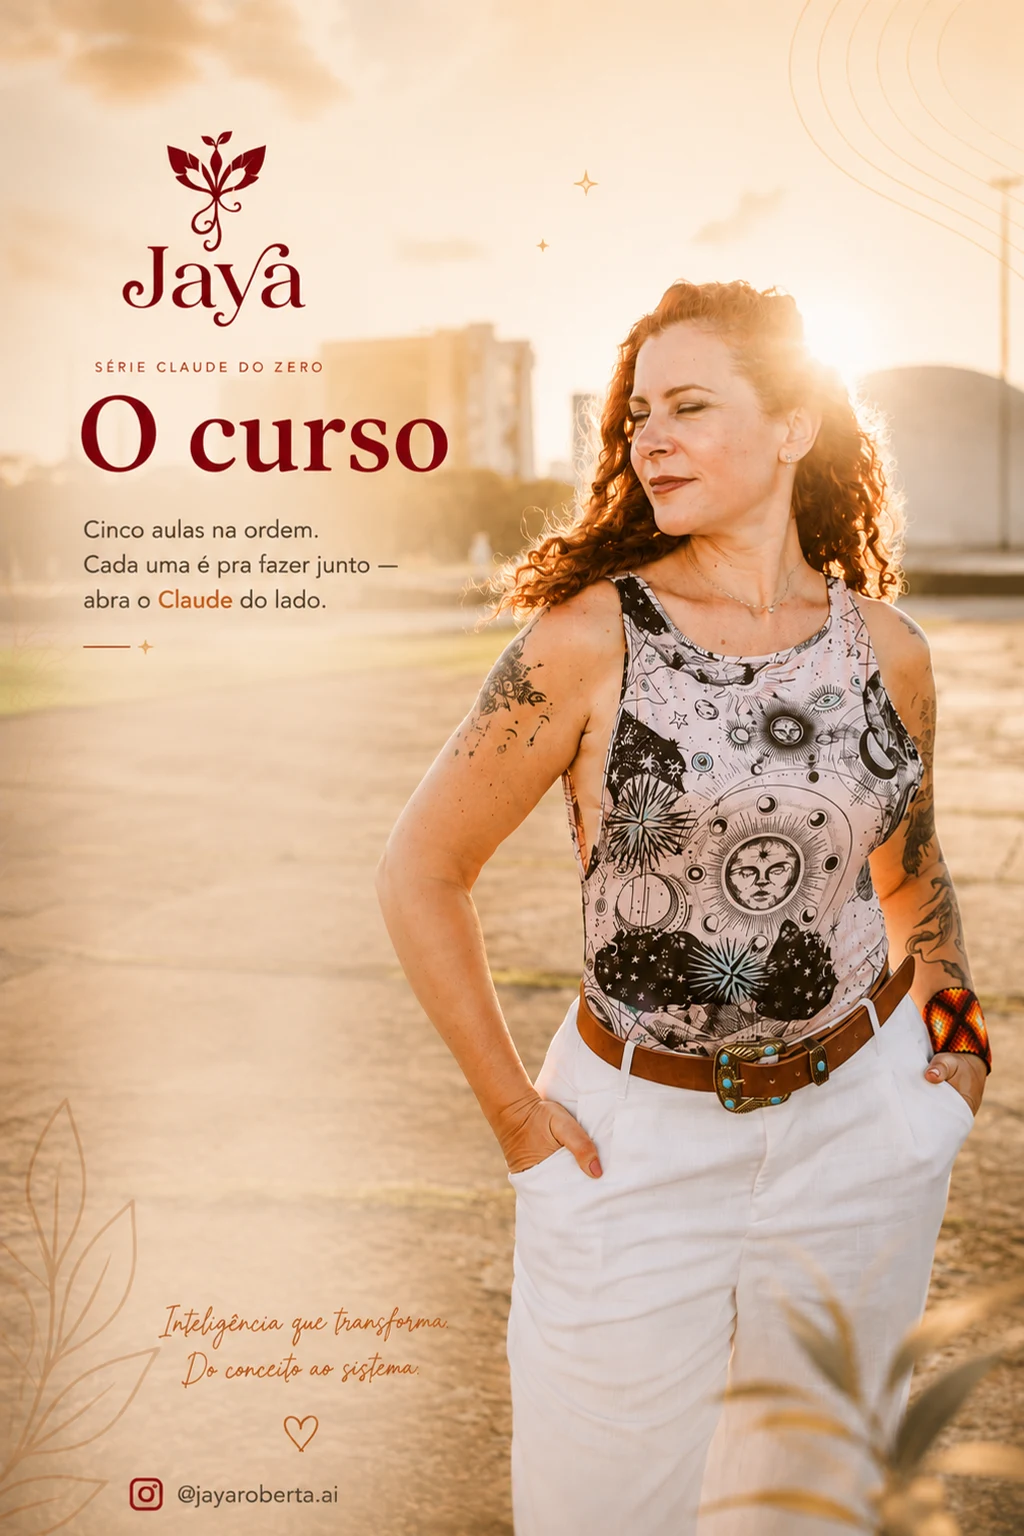
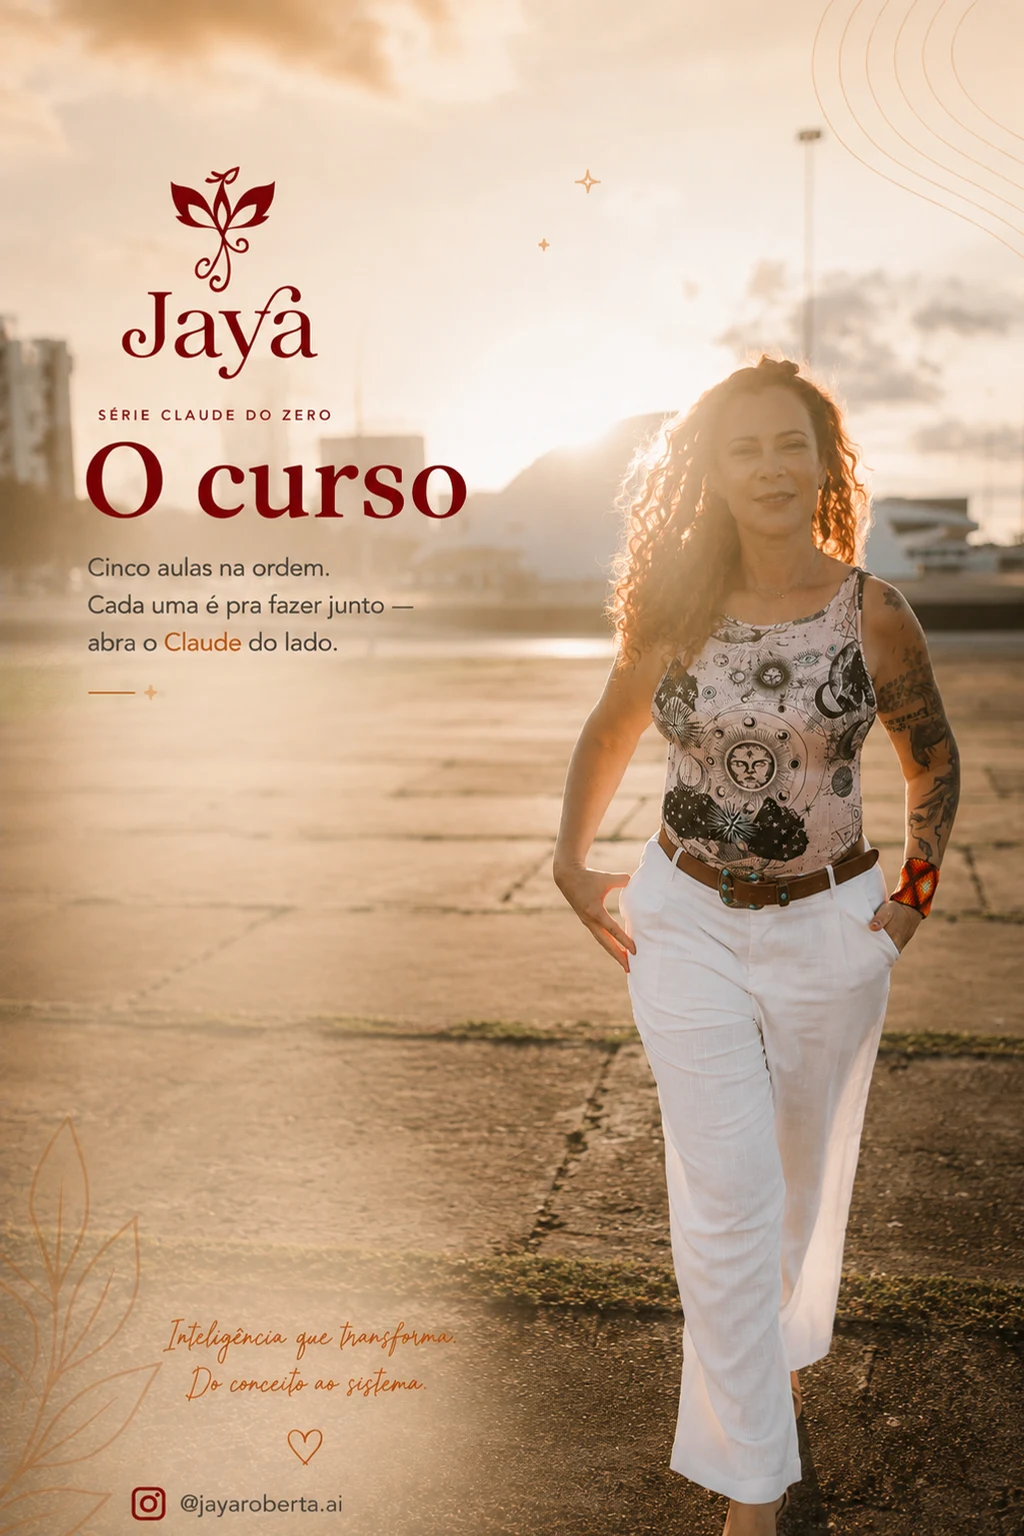
feat(home): new cover artwork, cards repositioned to its free gap

diff --git a/app/page.tsx b/app/page.tsx
@@ -1,13 +1,13 @@
 import Link from 'next/link';
 
 /* Posições medidas na arte de referência (inicial_com_cards.png, 1024x1536) e
-   reescaladas por 0.88 para caber no vão livre da capa sem cards, que é menor
+   reescaladas por 0.85 para caber no vão livre da capa sem cards, que é menor
    porque o logo empurra o conteúdo. As proporções entre os cards são as da arte. */
 const AULAS = [
   {
     n: 1,
-    top: 43.0,
-    alt: 7.30,
+    top: 45.50,
+    alt: 7.06,
     titulo: 'Conversar com o Claude',
     desc: 'Planos, modelos, a fórmula OCAS e como deixar o Claude te conhecer.',
     icone: (
@@ -20,8 +20,8 @@ const AULAS = [
   },
   {
     n: 2,
-    top: 51.09,
-    alt: 7.30,
+    top: 53.32,
+    alt: 7.06,
     titulo: 'Botar o Claude pra Trabalhar',
     desc: 'Artefatos, Projetos, Conectores, Skills, Cowork e Design.',
     icone: (
@@ -34,8 +34,8 @@ const AULAS = [
   },
   {
     n: 3,
-    top: 59.18,
-    alt: 7.30,
+    top: 61.14,
+    alt: 7.06,
     titulo: 'Documento Mestre',
     desc: 'O documento que ensina o Claude quem você é — com os prompts prontos.',
     icone: (
@@ -48,8 +48,8 @@ const AULAS = [
   },
   {
     n: 4,
-    top: 67.27,
-    alt: 8.10,
+    top: 68.96,
+    alt: 7.82,
     titulo: 'Psicometria e Zona de Genialidade',
     desc: '43 perguntas que viram o seu blueprint e o seu dashboard psicométrico.',
     icone: (
@@ -62,8 +62,8 @@ const AULAS = [
   },
   {
     n: 5,
-    top: 76.16,
-    alt: 7.22,
+    top: 77.55,
+    alt: 6.97,
     titulo: 'Landing Page com Identidade Visual',
     desc: 'Os prompts para criar uma página com a sua cara, do zero.',
     icone: (
